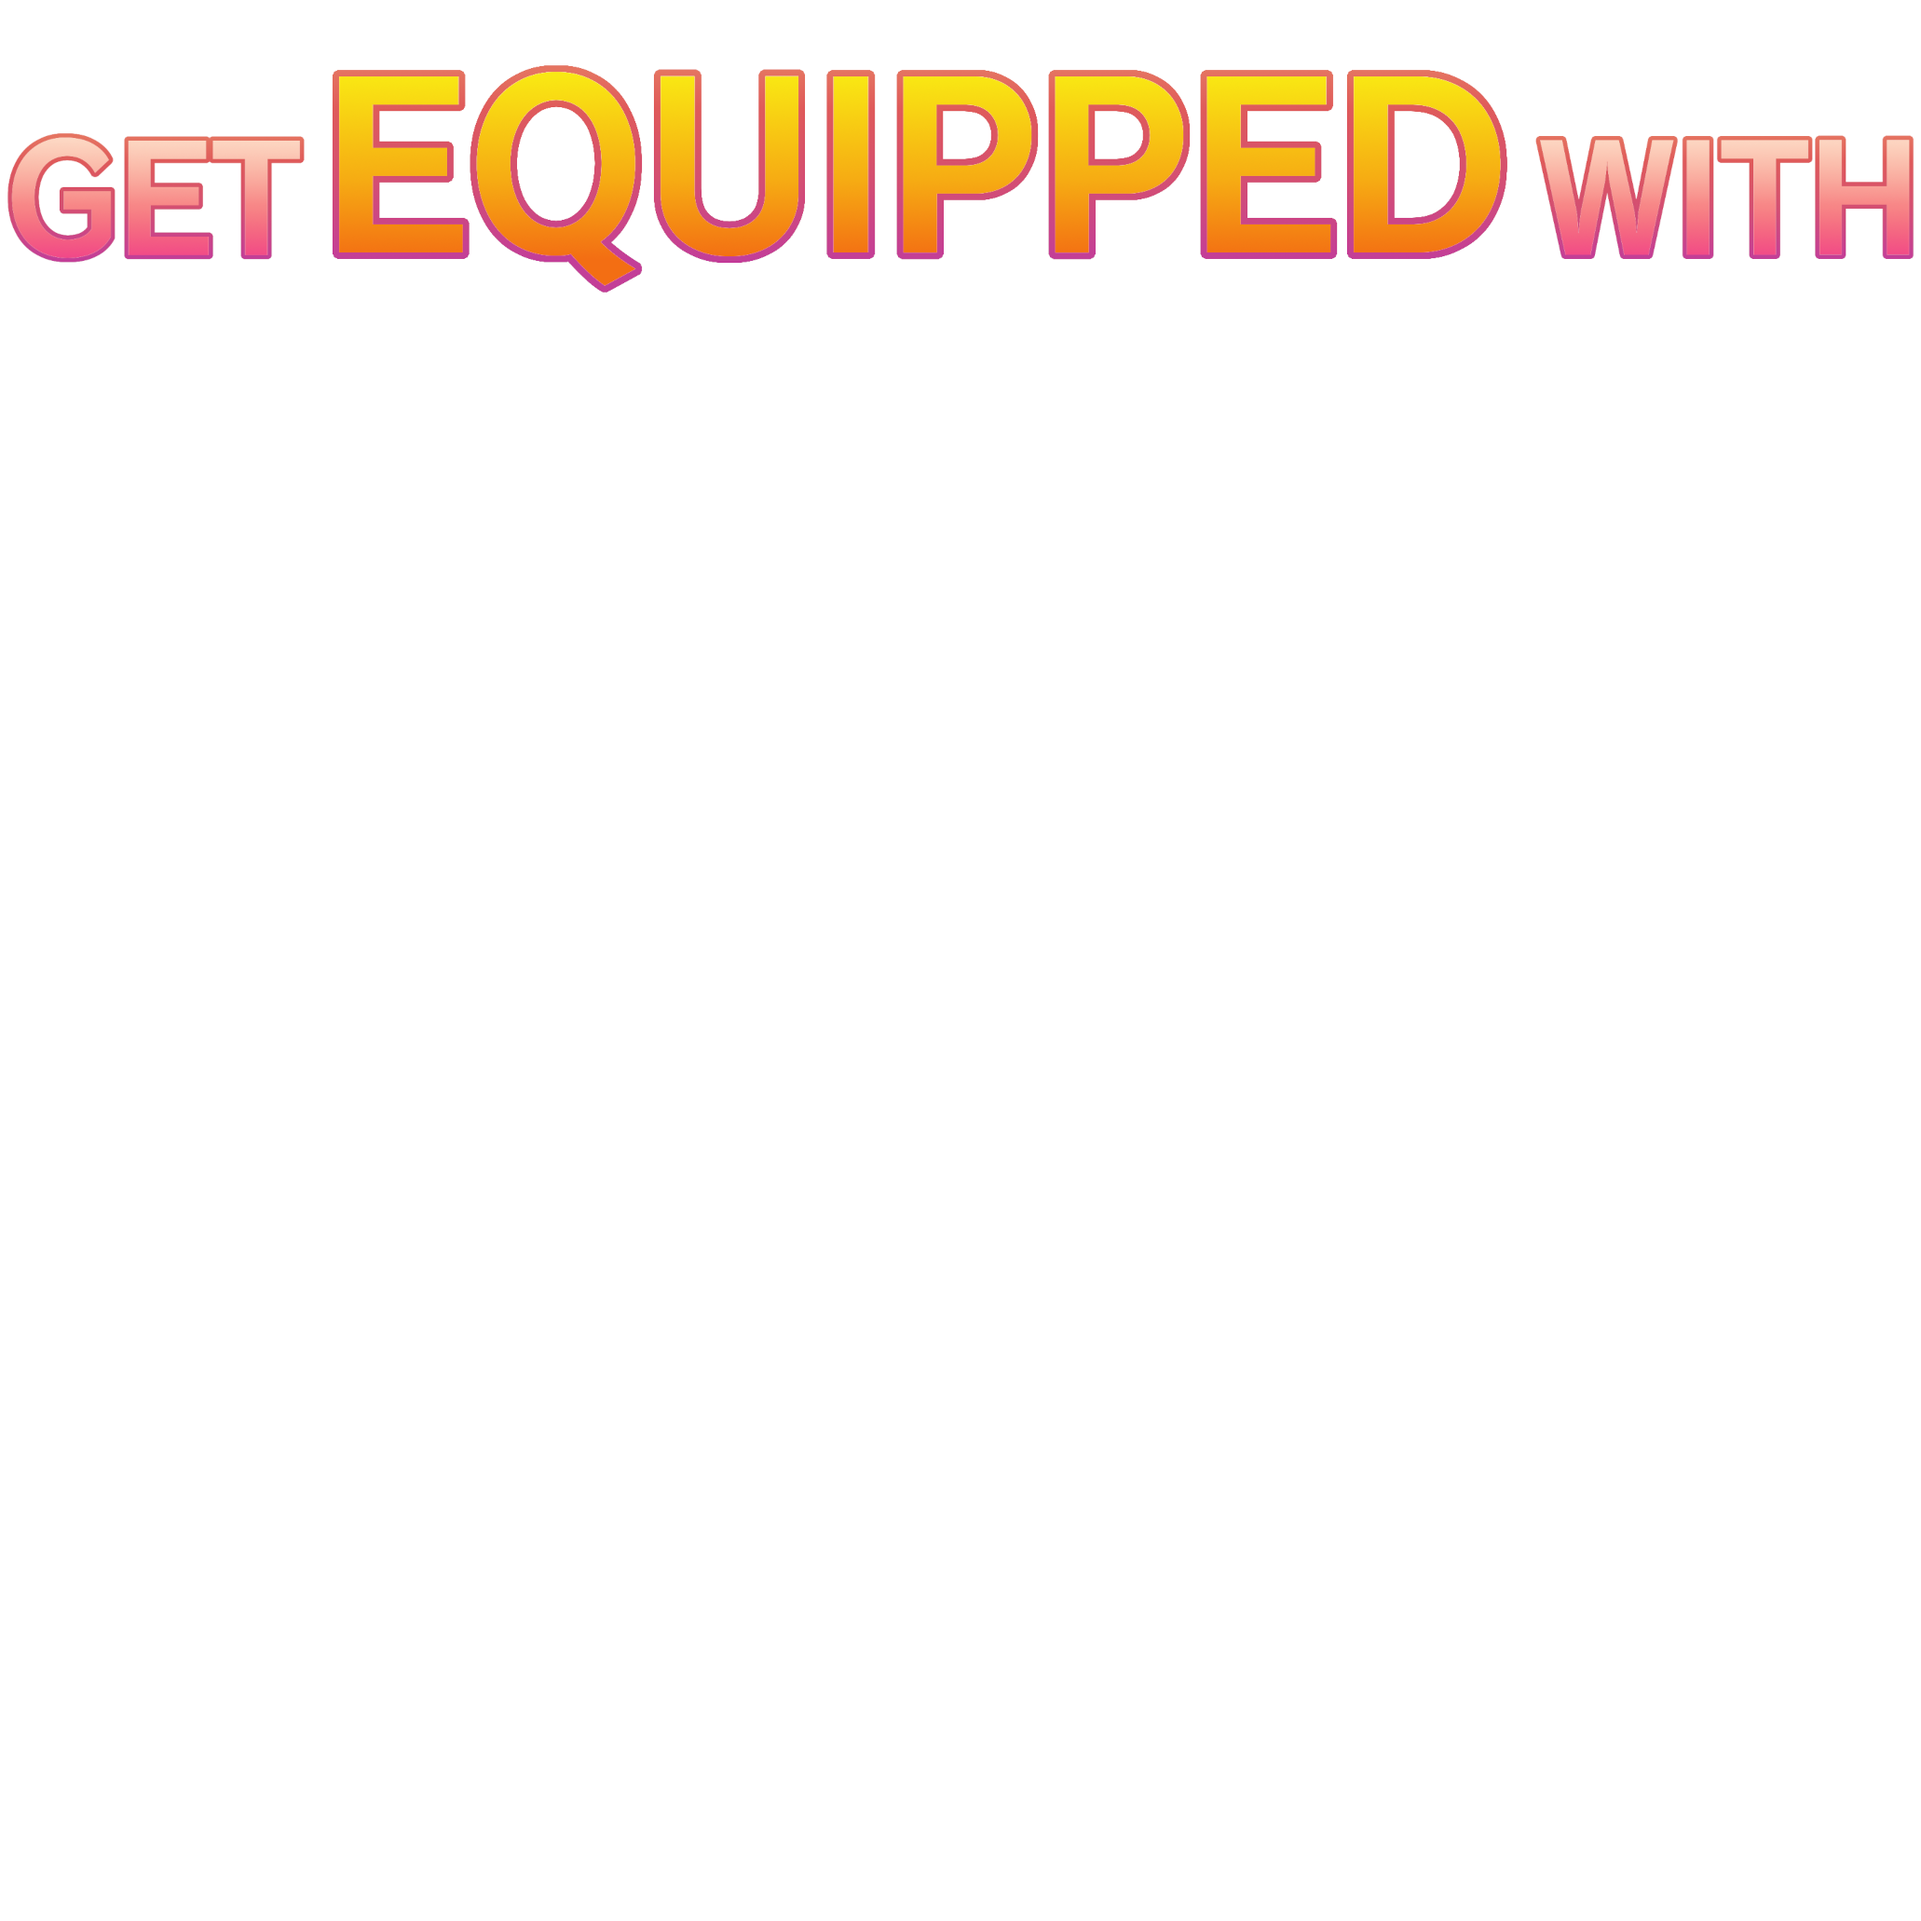
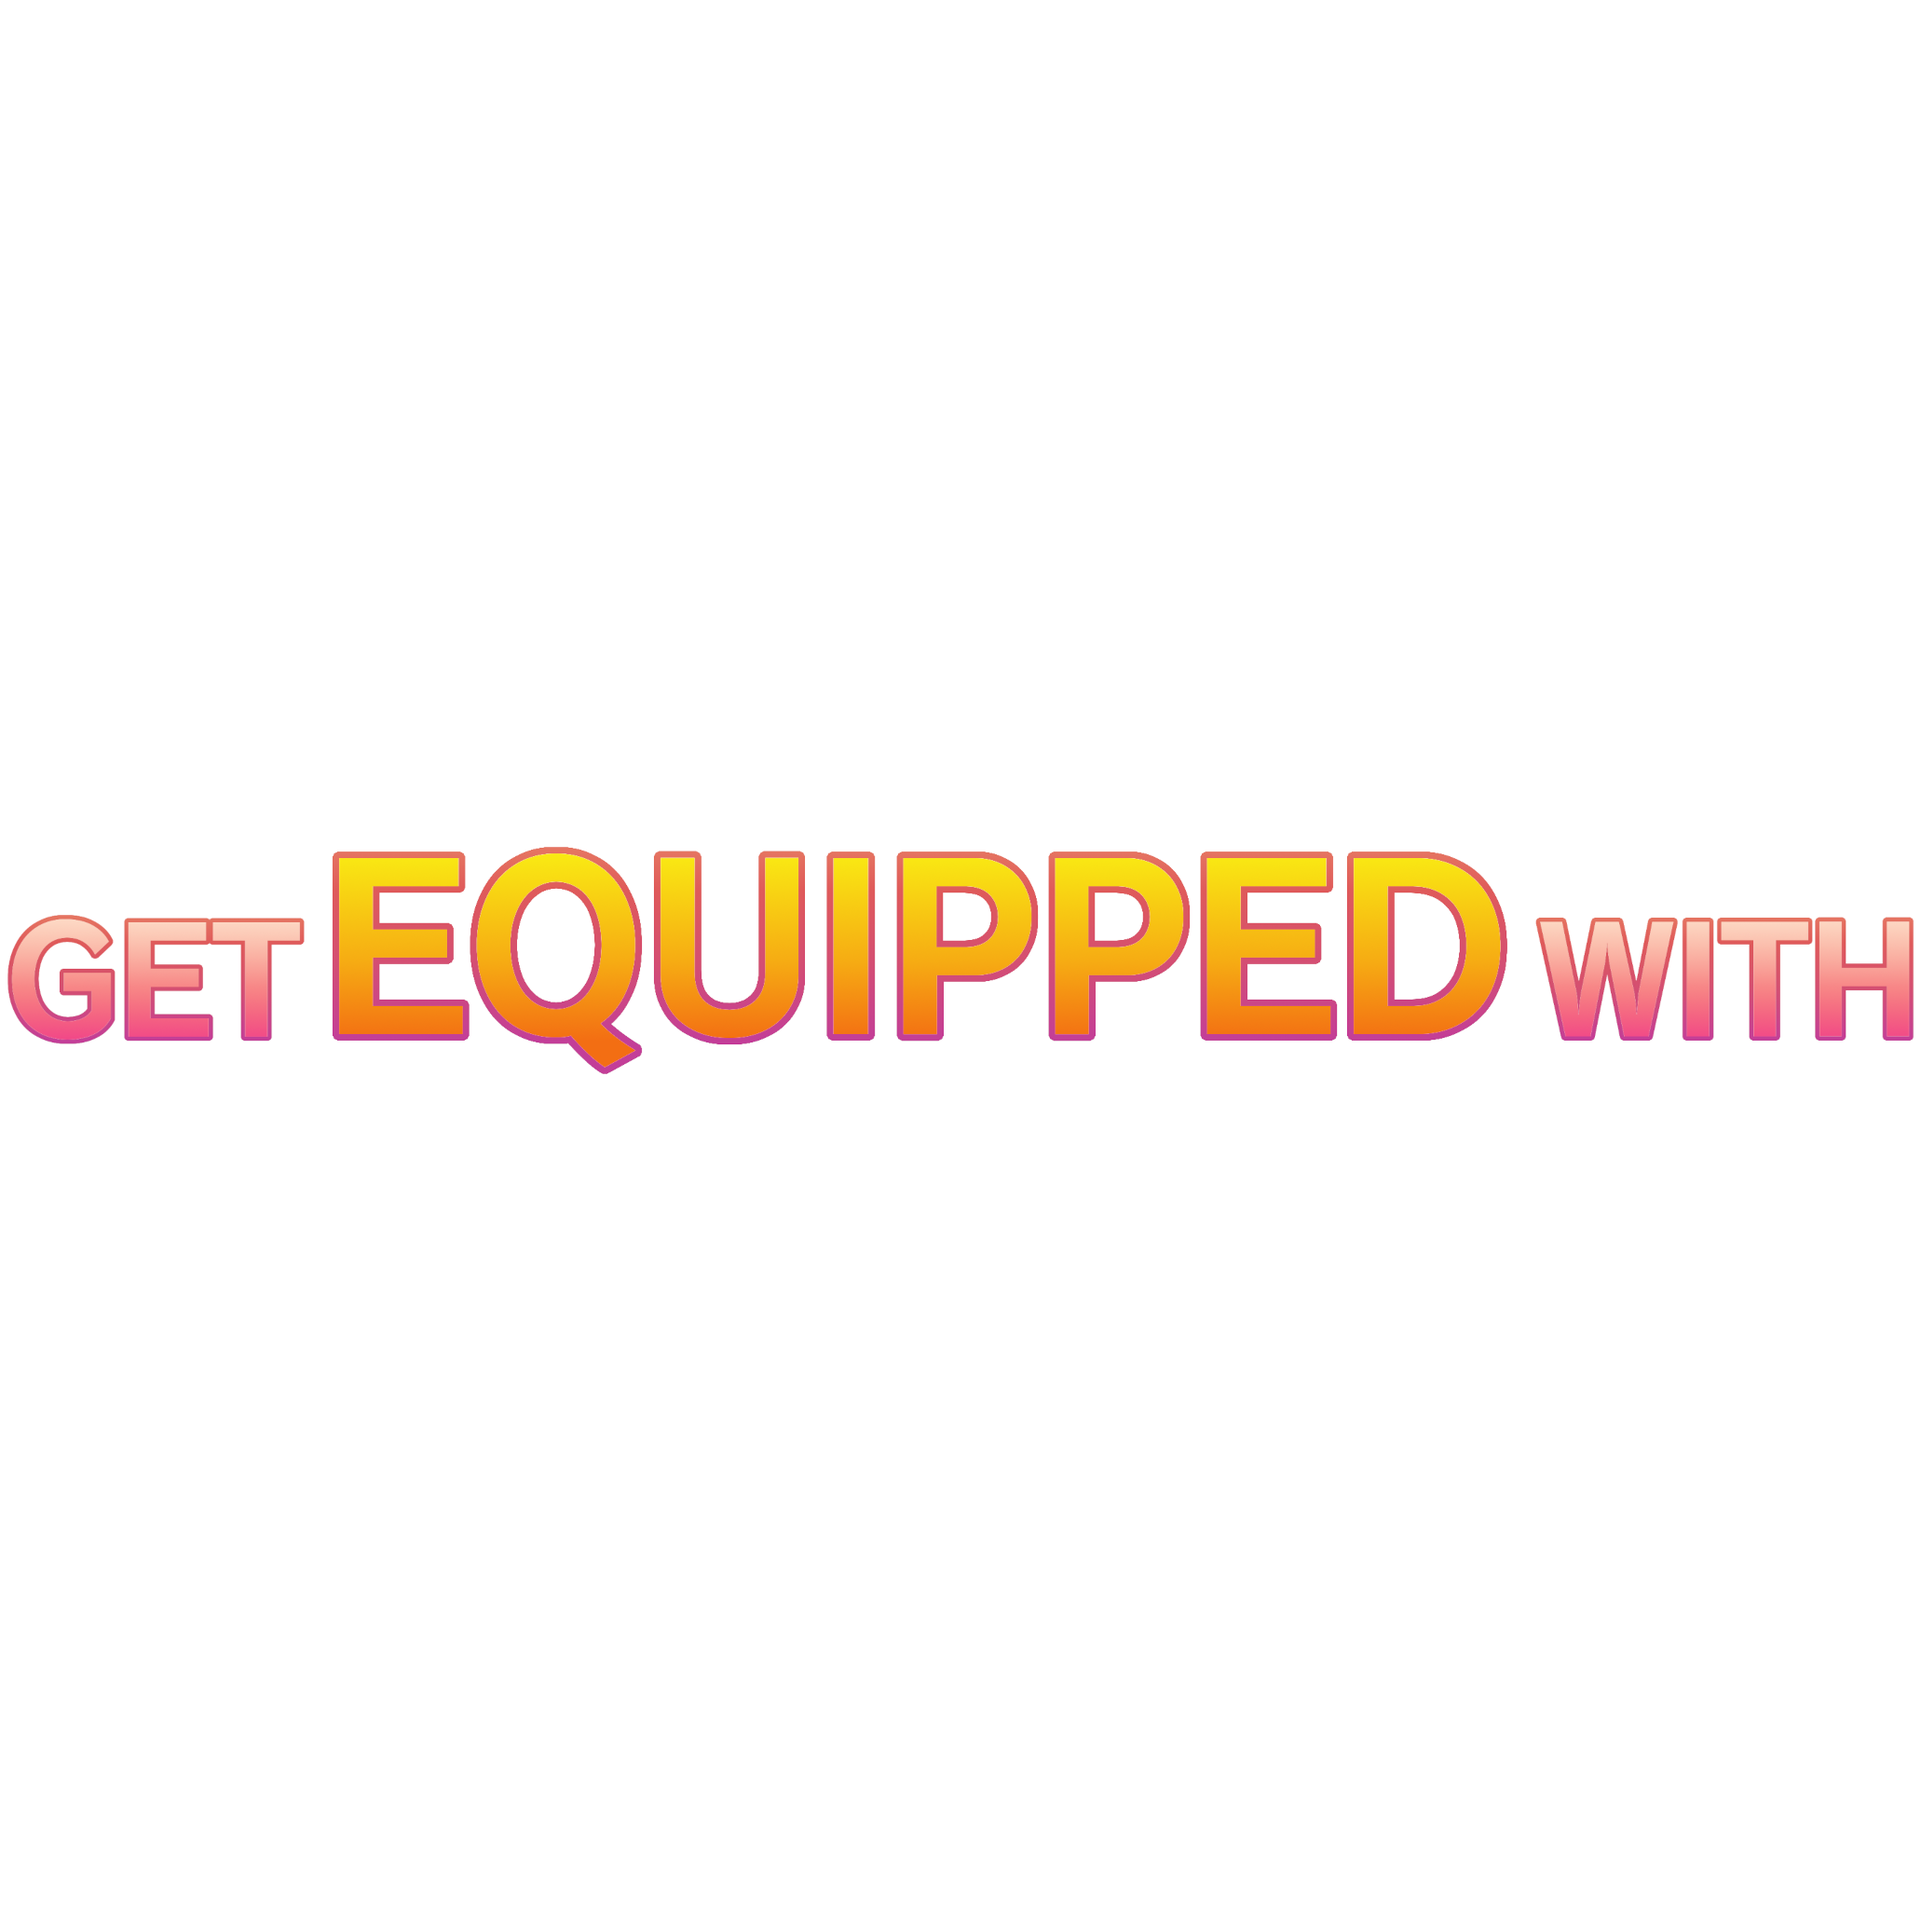
improved!

Changed region(s): [[0.0, 0.4345, 1.0, 0.5587], [0.0, 0.031, 1.0, 0.1552]]

diff --git a/js/cursor.js b/js/cursor.js
@@ -1,7 +1,13 @@
+let audioPlayer = document.getElementById("audioPlayer");
+let audioPlayerClick = document.getElementById("AudioPlayerClick");
+
+let dictusSpin = document.getElementById("DictusSpin");
+let getEquipped = document.getElementById("GetEquippedWith");
 
 let cursor1 = document.getElementById("cursor1");
 let cursor2 = document.getElementById("cursor2");
 let toggle = true;
+let toggleMusic = false;
 
 var isMobile = {
             Android: function () {
@@ -63,3 +69,29 @@ else
 	cursor1.style.visibility = 'hidden';
 	cursor2.style.visibility = 'hidden';
 }
+
+function ToggleMusic()
+{
+	if(toggleMusic == false)
+	{
+		audioPlayer.volume = 0.5;
+		audioPlayer.play();
+		audioPlayerClick.style.visibility = 'hidden';
+		dictusSpin.style.visibility = 'visible';
+		getEquipped.style.visibility = 'visible';
+	}
+	else
+	{
+		audioPlayer.pause();
+		audioPlayerClick.style.visibility = 'visible';
+		dictusSpin.style.visibility = 'hidden';
+		getEquipped.style.visibility = 'hidden';
+	}
+	
+	toggleMusic = !toggleMusic;
+}
+
+dictusSpin.style.visibility = 'hidden';
+getEquipped.style.visibility = 'hidden';
+document.addEventListener('click', ToggleMusic);
+

diff --git a/index.html b/index.html
@@ -9,16 +9,15 @@
 	</head>
 	<body>
 		<div id="container">
-			<div id="GetEquippedWith">
-				<img src="images/GetEquippedWith.png">
-				<div id="DictusSpin"><img src="images/DictusSpin.gif"></div>
-			</div>
+			<div id="GetEquippedWith"><img src="images/GetEquippedWith.png"></div>
+			<div id="DictusSpin"><img src="images/DictusSpin.gif"></div>
+			<div id="AudioPlayerClick"><img src="images/AudioPlayerClick.gif"></div>
 		</div>	
-		<audio controls autoplay loop>
+		<audio autoplay loop id="audioPlayer">
 			<source src="sounds/RightRoundMidi.mp3" type="audio/mpeg">
 		</audio>		
 		<div id="cursor1"><img src="images/cursor.png"></div>
 		<div id="cursor2"><img src="images/cursor2.png"></div>
-		<script src="js/cursor.js"></script>		
+		<script src="js/cursor.js"></script>	
 	</body>
 </html>

diff --git a/css/styles.css b/css/styles.css
@@ -28,11 +28,10 @@ body
 	position: absolute;
     top: 50%;
     left: 50%;
-    transform: translateX(-50%) translateY(-65%);
+    transform: translateX(-50%) translateY(-103%);
     max-width: 100%;
     max-height: 80%;
 	padding: 30px;
-	padding-bottom: 55px;
 }
 
 #DictusSpin img
@@ -47,14 +46,16 @@ body
 	padding: 30px;
 }
 
-audio
+#AudioPlayerClick img
 {
 	position: absolute;
-    top: 90%;
+    top: 50%;
     left: 50%;
-    transform: translateX(-50%) translateY(90%);
+    transform: translateX(-50%) translateY(-45%);
     max-width: 100%;
-	max-height: 100%;
+    max-height: 80%;
+	background: rgba(0,0,0,0.5);
+	padding: 30px;
 }
 	
 @media screen and (max-width: 480px)

diff --git a/js/layout.js b/js/layout.js
@@ -1,0 +1,9 @@
+
+let dictusSpin = document.getElementById("DictusSpin");
+let getEquippedBanner = document.getElementById("GetEquippedWith");
+let audioPlayer = document.getElementById("audioPlayer");
+
+window.addEventListener('resize', function(event) {
+   getEquippedBanner.style.top = DictusSpin.style.top + DictusSpin.style.height + 'px';
+   audioPlayer.style.top = DictusSpin.style.top + DictusSpin.style.height + 'px';
+}, true);
